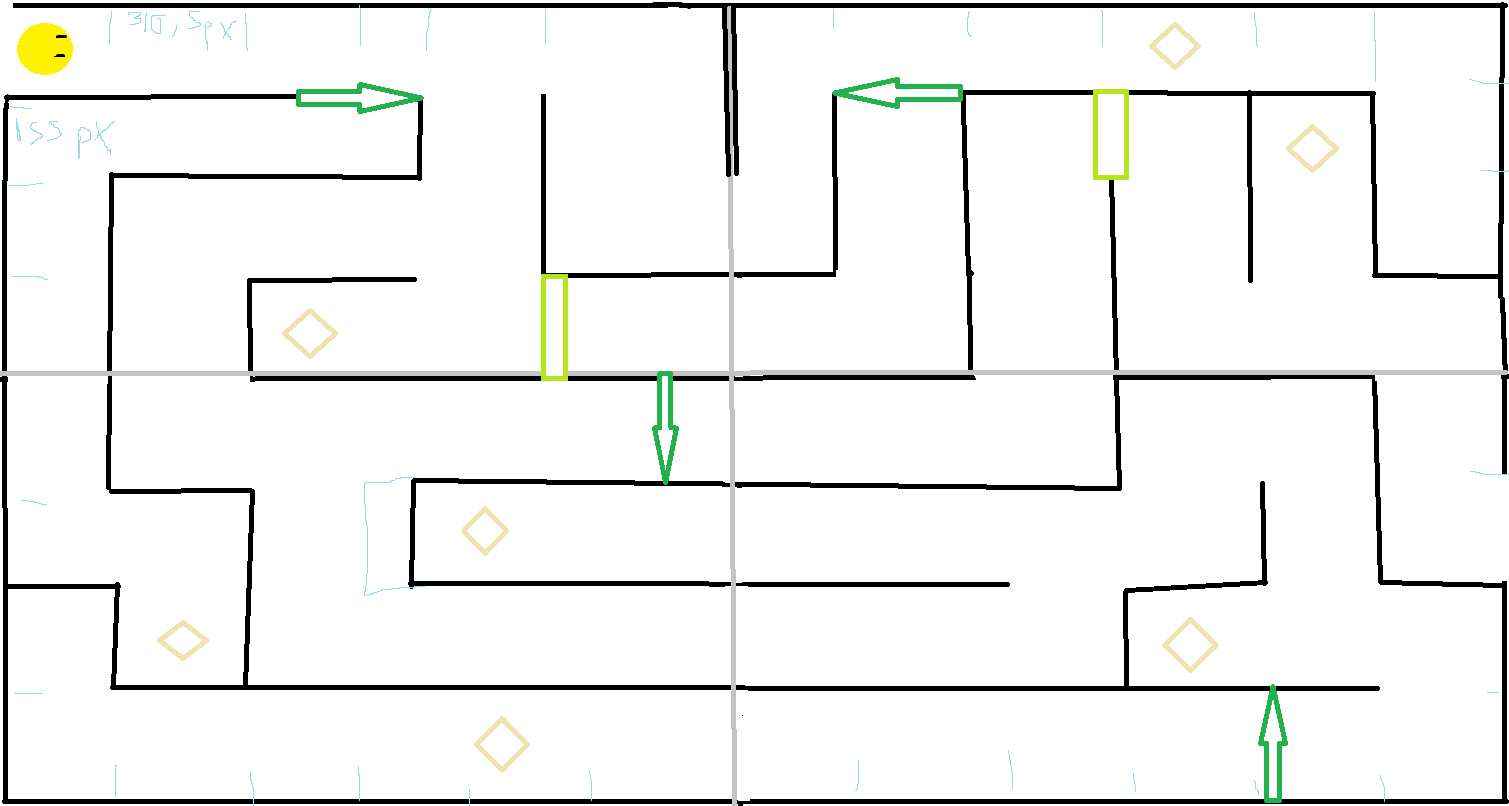
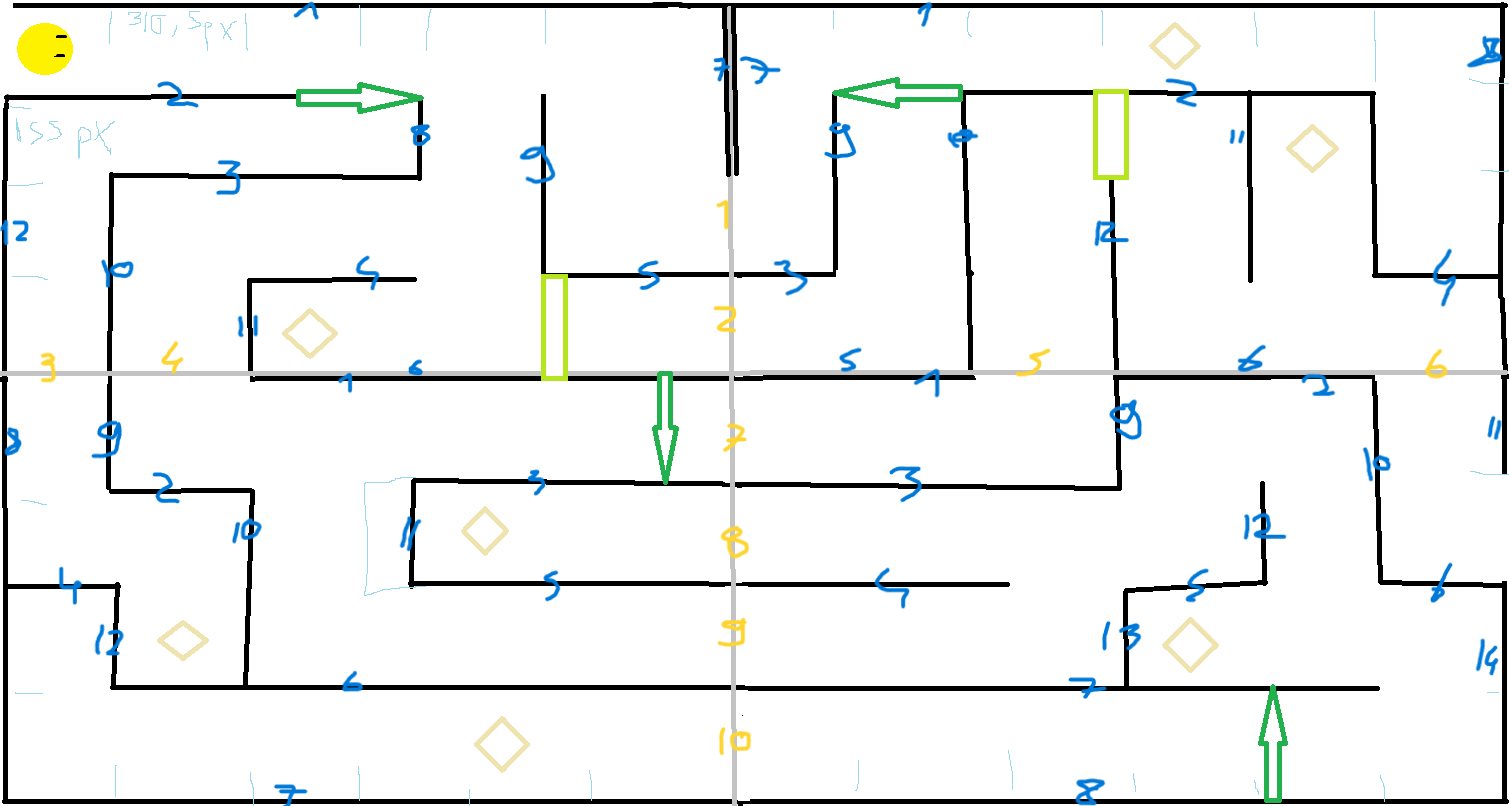
bl 1 placement mur

diff --git a/BL page1.html b/BL page1.html
@@ -29,12 +29,31 @@
     <!-- Crumb exemple -->
     <img id="crumb1" data-alone="true" style="position: absolute" src="Crumb.png" width="50" height="50"></img>
 
-    <img class="image" id="m30-300/1863-300" style="position: absolute" src="Mur.png" width="1863" height="40"></img>
+    <img class="image" id="m8-277/1871-277" style="position: absolute" src="Mur.png" width="1863" height="40"></img>
+    <img class="image" id="m8-432/939.5-432" style="position: absolute" src="Mur.png" width="931.5" height="40"></img>
+    <img class="image" id="m318.5-587/1250-587" style="position: absolute" src="Mur.png" width="931.5" height="40"></img>
+    <img class="image" id="m629-742/1250-742" style="position: absolute" src="Mur.png" width="621" height="40"></img>
+    <img class="image" id="m5" style="position: absolute" src="Mur.png" width="310.5" height="40"></img>
+    <img class="image" id="m6" style="position: absolute" src="Mur.png" width="1242" height="40"></img>
+    <img class="image" id="m7" style="position: absolute" src="Mur.png" width="40" height="310"></img>
+    <img class="image" id="m8" style="position: absolute" src="Mur.png" width="40" height="155"></img>
+    <img class="image" id="m9" style="position: absolute" src="Mur.png" width="40" height="350"></img>
+    <img class="image" id="m10" style="position: absolute" src="Mur.png" width="40" height="350"></img>
+    <img class="image" id="m11" style="position: absolute" src="Mur.png" width="40" height="155"></img>
+    <img class="image" id="m12" style="position: absolute" src="Mur.png" width="40" height="465"></img>
+
+    <img class="image" id="p1" style="position: absolute" src="Passages.png" width="40" height="155"></img>
+    <img class="image" id="p2" style="position: absolute" src="Passages.png" width="40" height="155"></img>
+    <img class="image" id="p3" style="position: absolute" src="Passages.png" width="310.5" height="40"></img>
+
+    <div class="bloc image" id="porte1_blocD" style="position: absolute;"></div>
+
+
 
     <!-- Bloc exemple -->
     <!--<div class="bloc image" id="bloc1" style="position: absolute;"></div>-->
 
-    <img id="piou" style="position: absolute" src="piou haut droit.png" width="160.5" height="91.5"></img>
+    <img id="piou" style="position: absolute" src="piou haut droit.png" width="80" height="45.5"></img>
 
     <script type="text/javascript" src="script.js"></script>
 	
@@ -46,18 +65,72 @@
     <script>
         function init(){
         let crumb1 = document.getElementById("crumb1");
-        crumb1.style.left = "1000px"; // Place-le loin de Piou au départ
-        crumb1.style.top = "500px";
+        crumb1.style.left = "699px"; // Place-le loin de Piou au départ
+        crumb1.style.top = "812px";
         let piou = document.getElementById("piou");
         piou.style.left = "400px";
-        piou.style.top = "700px";
-        let m1 = document.getElementById("m30-300/1863-300");
-        m1.style.left = "30";
-        m1.style.top = "300";
+        piou.style.top = "377px";
+        let m1 = document.getElementById("m8-277/1871-277");
+        m1.style.left = "8px";
+        m1.style.top = "277px";
+        let m2 = document.getElementById("m8-432/939.5-432");
+        m2.style.left = "8px";
+        m2.style.top = "432px";
+        let m3 = document.getElementById("m318.5-587/1250-587");
+        m3.style.left = "318.5px";
+        m3.style.top = "587px";
+        let m4 = document.getElementById("m629-742/1250-742");
+        m4.style.left = "629px";
+        m4.style.top = "742px";
+        let m5 = document.getElementById("m5");
+        m5.style.left = "1560.5px";
+        m5.style.top = "742px";
+        let m6 = document.getElementById("m6");
+        m6.style.left = "629px";
+        m6.style.top = "897px";
+        let m7 = document.getElementById("m7");
+        m7.style.left = "1831px";
+        m7.style.top = "317px";
+        let m8 = document.getElementById("m8");
+        m8.style.left = "1210px";
+        m8.style.top = "432px";
+        let m9 = document.getElementById("m9");
+        m9.style.left = "1520.5px";
+        m9.style.top = "432px";
+        let m10 = document.getElementById("m10");
+        m10.style.left = "318.5px";
+        m10.style.top = "587px";
+        let m11 = document.getElementById("m11");
+        m11.style.left = "629px";
+        m11.style.top = "742px";
+        let m12 = document.getElementById("m12");
+        m12.style.left = "8px";
+        m12.style.top = "472px";
+        let p1 = document.getElementById("p1");
+        p1.style.left = "1831px";
+        p1.style.top = "587px";
+        let p2 = document.getElementById("p2");
+        p2.style.left = "1831px";
+        p2.style.top = "742px";
+        let p3 = document.getElementById("p3");
+        p3.style.left = "8px";
+        p3.style.top = "897px";
         }
     </script>
 
     <script type="text/javascript" src="JavaScripting BL.js"></script>
+
+    <script>
+
+        // Porte 1 (1 crumb)
+    
+        changerdimensions(115, 40, 'porte1_blocD');
+    
+        placerBloc(1520.5, 782, 'porte1_blocD'); // droite
+        
+        animeMur('porte1_blocD', 2, true, 'topcenter');  
+
+    </script>
     <!--
     //Portes animées (2 blocs par porte) 
     <div class="bloc image" id="porte1_blocG" style="position: absolute;"></div>

diff --git a/JavaScripting BL.js b/JavaScripting BL.js
@@ -4,9 +4,9 @@ let MovingU = false
 let MovingD = false
 let Speed = 5
 let positionX = 60
-let positionY = 500
+let positionY = 350
 let schroum = new Audio("schroum.m4a")
-let dim_piou = { width: 536/5*1.5, height: 305/5*1.5 };
+let dim_piou = { width: 536/5*0.75, height: 305/5*0.75 };
 let crumb1removed = false
 
 // --- Déclaration des compteurs de crumbs mangés derrière chaque mur ---

diff --git a/script.js b/script.js
@@ -161,7 +161,7 @@ function Credits() {
 }
 
 function Level_bonus_button() {
-    location.replace("bonus level.html")
+    location.replace("BL page1.html")
 }
 
 function finishGame() {

diff --git a/README.md b/README.md
@@ -25,4 +25,7 @@ MAJ 1.1 :
         - Opening (Ending?) --------------------------------------------------------------------------------------------------------------- DONE
         - texte explicatif drogue (défilant?) ---------------------------------------------------------------------------------------------
 
-eva il faut que tu places tt les murs selon le plan, +30 pour le x a chaque fois, oublie pas class image
++8 (x) +277 (y) => murs
+rajouter murs qui bougent simplement 1 fois
+carré autour de piou pour désactiver l'attirance
+écraser bec de piou lorsqe mur pour quil soit carré
